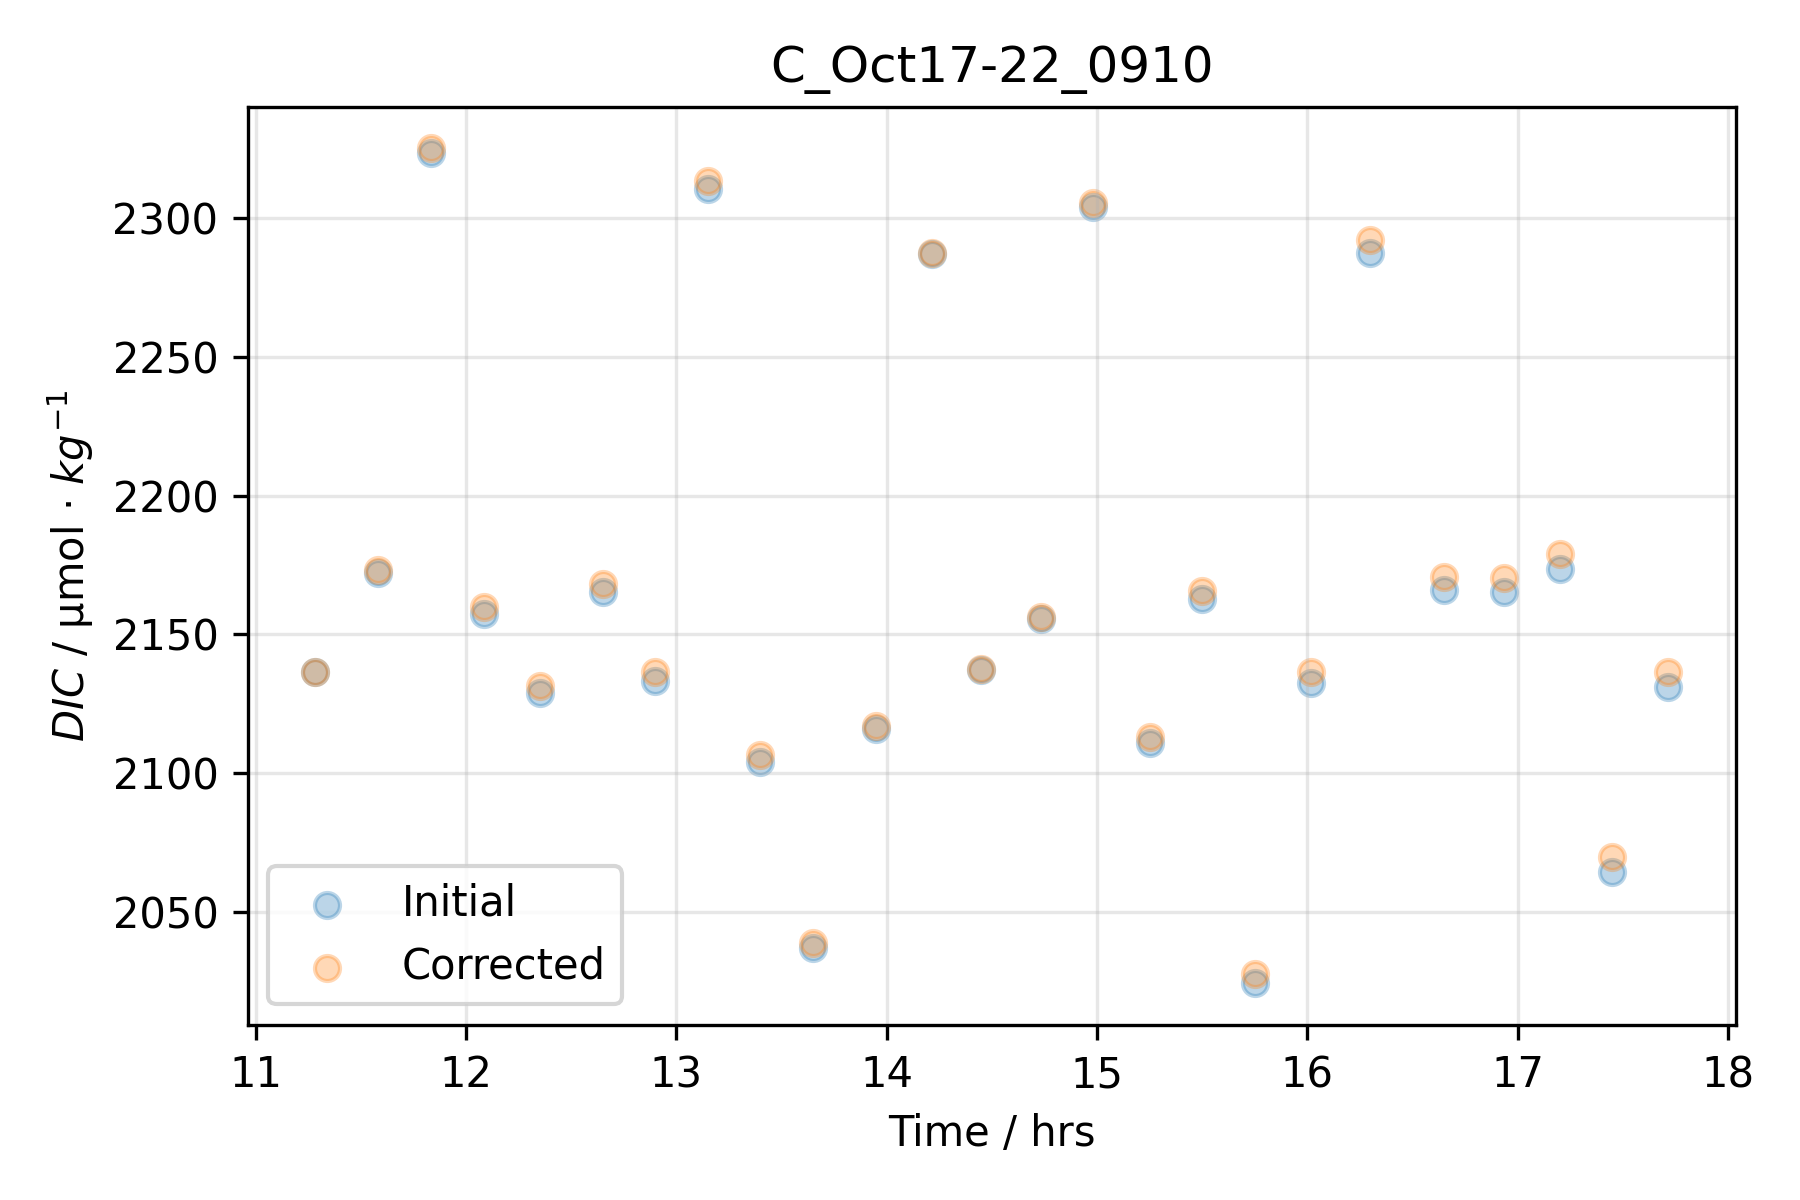
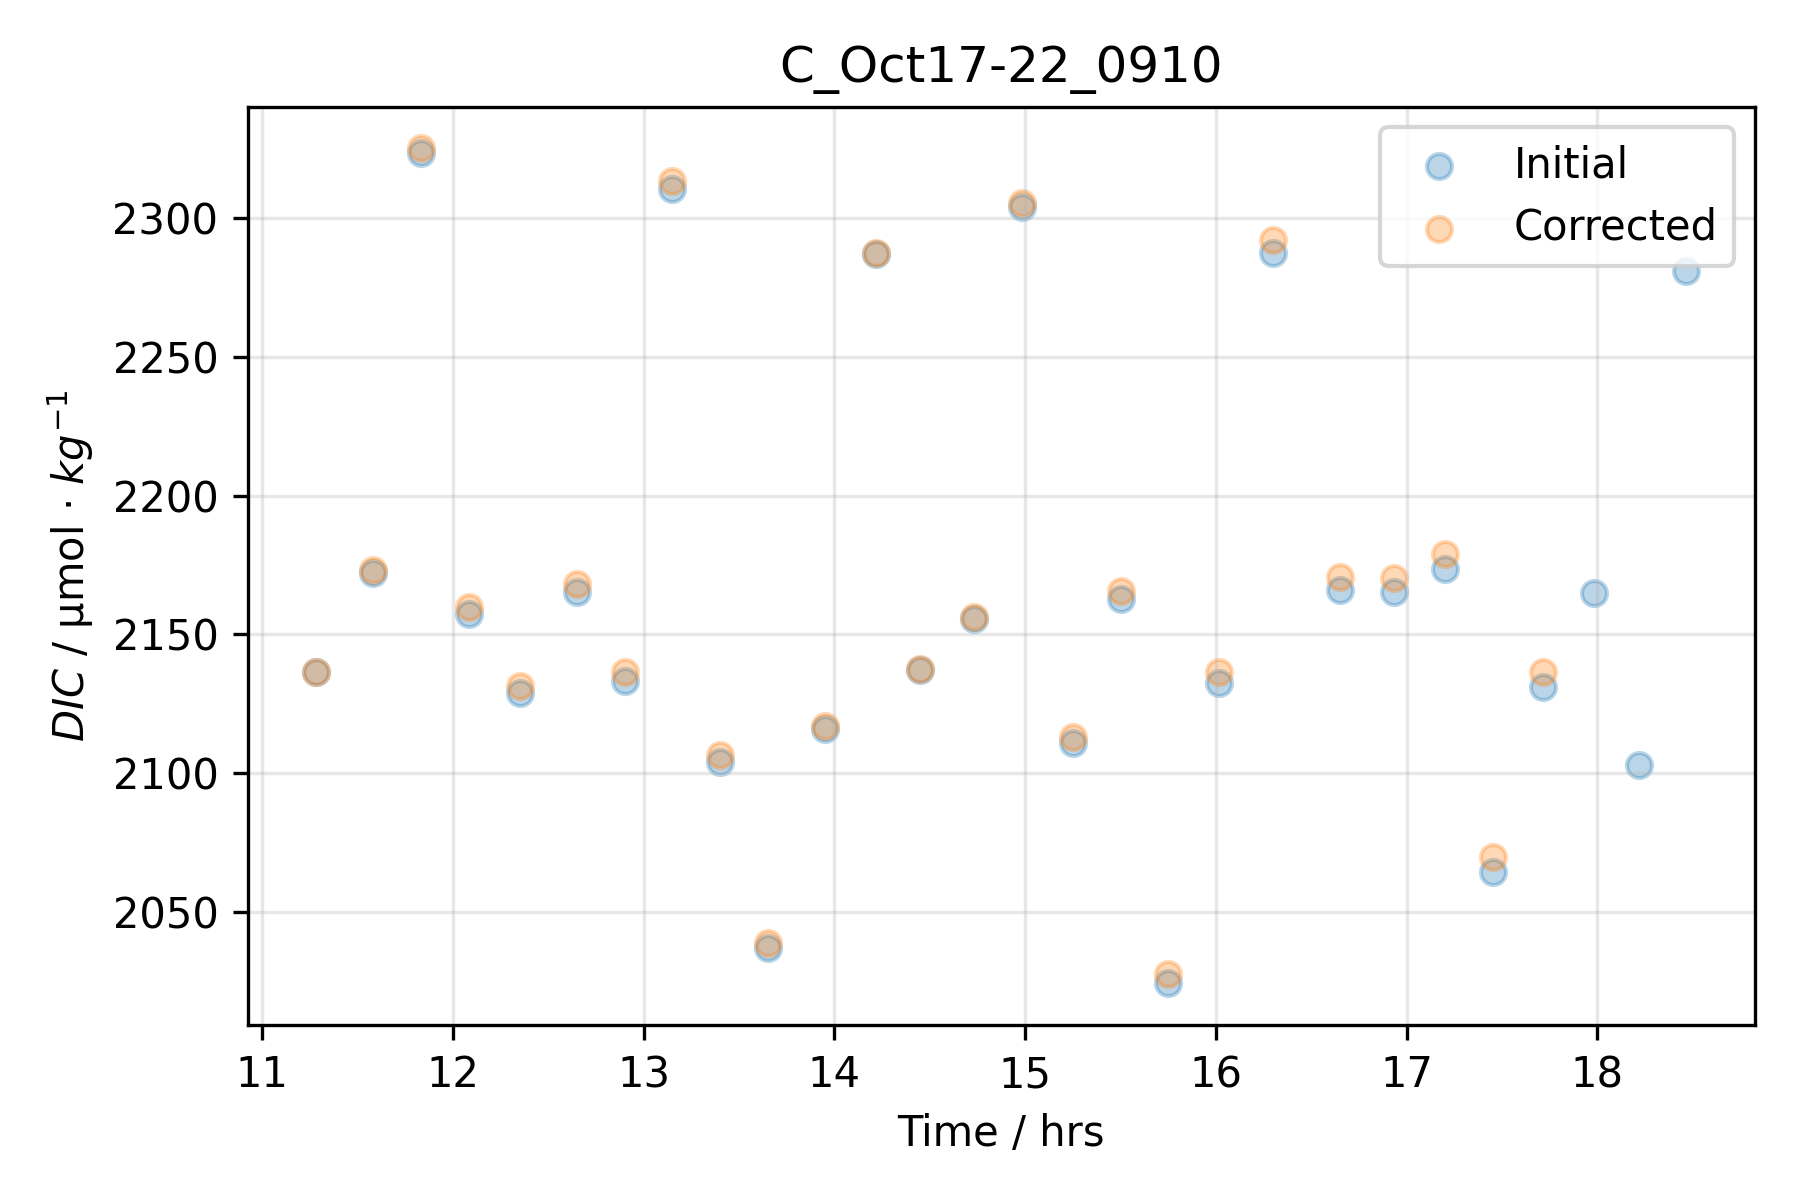
fixed dic correction script
now storing results properly

diff --git a/SO289-64PE503/correct_DIC_drift_SO289_64PE503.py b/SO289-64PE503/correct_DIC_drift_SO289_64PE503.py
@@ -17,13 +17,14 @@ df = df[~L]
 # Create a list of analysis days
 analysis_days = list(df.loc[df["real_day"] == True, "dic_cell_id"].unique())
 
+# Create df to store corrected values
+corrected_dic = pd.DataFrame()
+
 # Calculate DIC offset for each analysis day
 for d in analysis_days:
     
-    data = df.copy()
-
-    L = data["dic_cell_id"] == d
-    data = data[L]
+    L = df["dic_cell_id"] == d
+    data = df[L].copy()
 
     # Calculate nuts offset throughout the day
     first_nuts = data.loc[data.loc[data.bottle.str.contains("NUTS")].index[0], "dic"]
@@ -40,31 +41,45 @@ for d in analysis_days:
     # Correct DIC for samples
     data["dic_corrected"] = data["dic"] + data["offset_pchip"]
 
-    # Add corrected DIC to original df
-    samples = list(data["bottle"])
+    # Store results
+    corrected_dic = pd.concat([corrected_dic, data])
 
-    for s in samples:
-        df.loc[df["bottle"] == s, "dic_corrected"] = data.loc[
-            data["bottle"] == s, "dic_corrected"
-        ]
 
-    # === PLOT
-    # Create a column with hours and minutes
-    data["analysis_datetime"] = pd.to_datetime(data["analysis_datetime"])
-    data["datetime"] = data["analysis_datetime"].dt.strftime("%H:%M")
-    data["datetime"] = pd.to_datetime(data["datetime"])
+# Add corrected DIC to original df
+samples = list(df["bottle"])
+
+for s in samples:
+    df.loc[df["bottle"] == s, "nuts_offset"] = corrected_dic.loc[
+        corrected_dic["bottle"] == s, "nuts_offset"
+    ]
+    
+    df.loc[df["bottle"] == s, "offset_pchip"] = corrected_dic.loc[
+        corrected_dic["bottle"] == s, "offset_pchip"
+    ]
+            
+    df.loc[df["bottle"] == s, "dic_corrected"] = corrected_dic.loc[
+        corrected_dic["bottle"] == s, "dic_corrected"
+    ]
+
+# === PLOT
+# Create a column with hours and minutes
+df["analysis_datetime"] = pd.to_datetime(df["analysis_datetime"])
+df["datetime"] = df["analysis_datetime"].dt.strftime("%H:%M")
+df["datetime"] = pd.to_datetime(df["datetime"])
+
+for d in analysis_days:
 
     # Create figure
     fig, ax = plt.subplots(dpi=300, figsize=(6, 4))
 
-    L = data["dic_corrected"].notnull()
+    L = df["dic_cell_id"]==d
 
     # Scatter original DIC
-    ax.scatter(x="datetime", y="dic", data=data[L], alpha=0.3, label="Initial")
+    ax.scatter(x="datetime", y="dic", data=df[L], alpha=0.3, label="Initial")
 
     # Scatter corrected DIC
     ax.scatter(
-        x="datetime", y="dic_corrected", data=data[L], alpha=0.3, label="Corrected"
+        x="datetime", y="dic_corrected", data=df[L], alpha=0.3, label="Corrected"
     )
 
     # Improve plot
